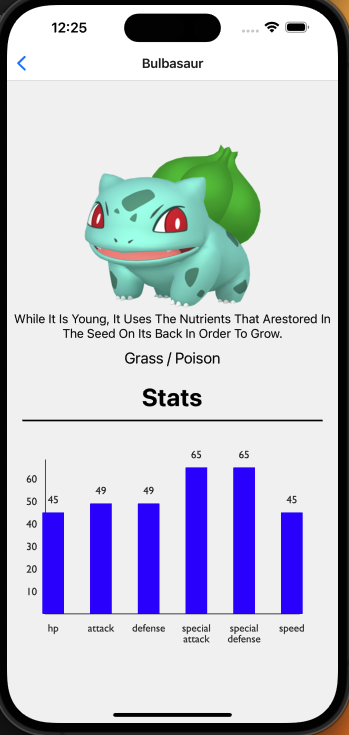
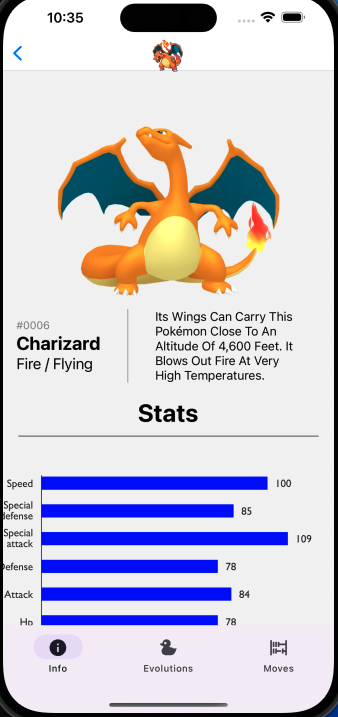
updated readme

diff --git a/README.md b/README.md
@@ -12,15 +12,18 @@ Once you find your generation, you can either scroll or search for the Pokemon y
 
 ### Pokemon View
 
-Once you select a Pokemon, its detailed page will come up allowing you to see multiple bits of information regarding that Pokemon, such as:
+Once you select a Pokemon, the Pokemon's detailed view will show up with tabs at the bottom.
 
+The following information can be found in the tabs:
+
+- Pokemon number/id
 - Description
 - Type
-- Base Stats
-- Evolution Line
+- Stats
+- Evolutions
+- Other forms (Mega Evolution, GMax, Alola, etc.)
+- Movesets (either by level up or HM/TM)
 
-See image below using Bulbasaur as an example
+See image below using Charizard as an example
 
-<img src="/assets/pokemon1.png" alt="pokemon view with stats and description" height=250>
-
-<img src="/assets/pokemon2.png" alt="pokemon view with evolution chain" height=250>
+<img src="/assets/pokemon_tabs.gif" alt="pokemon view with stats and description" height=250>
